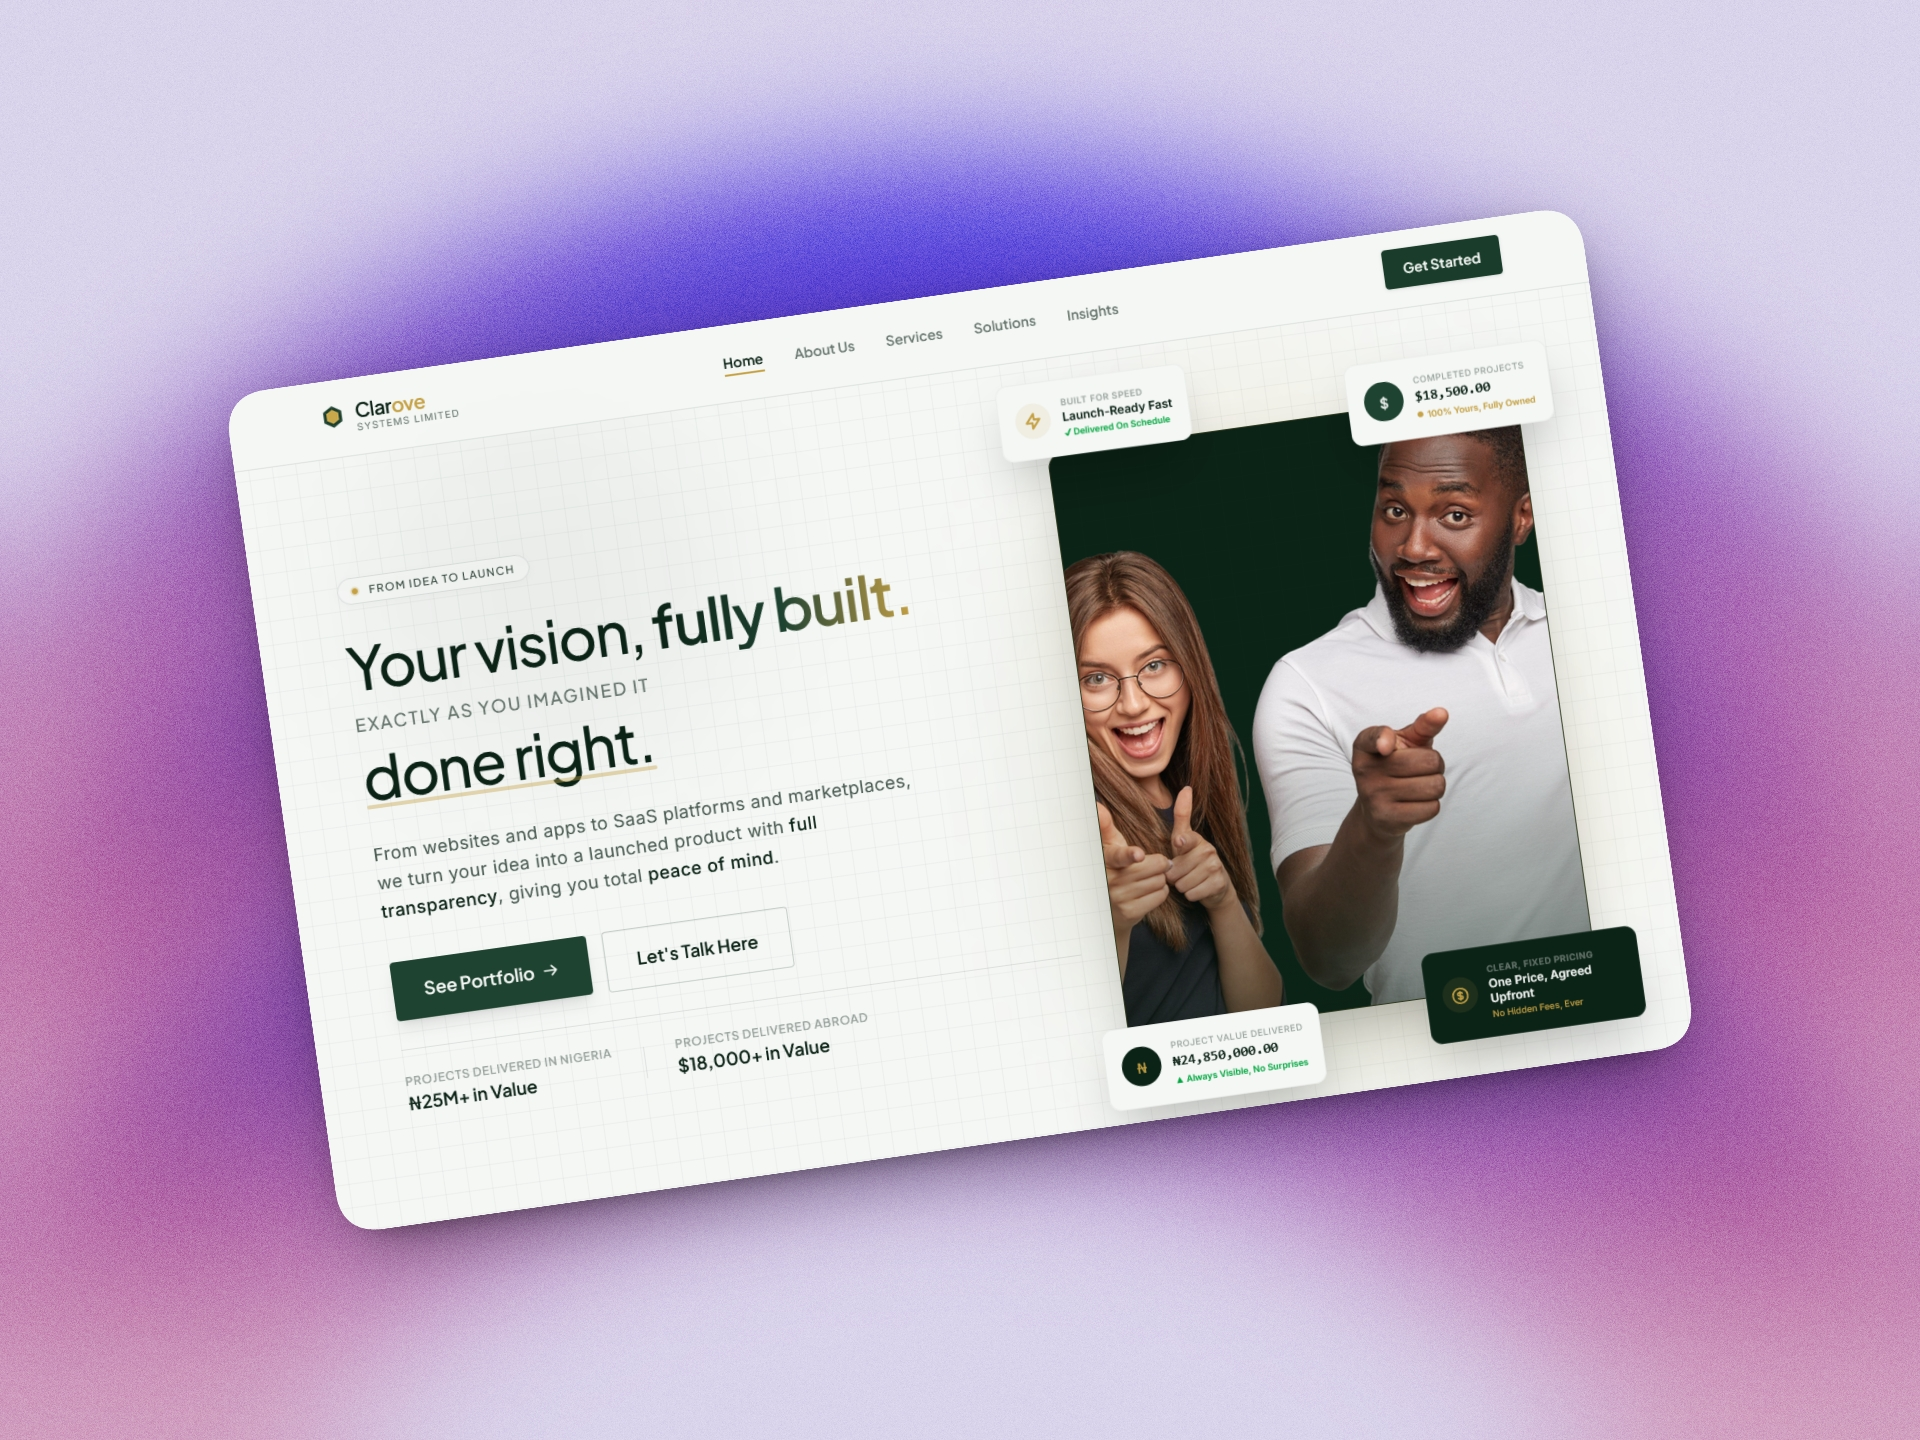
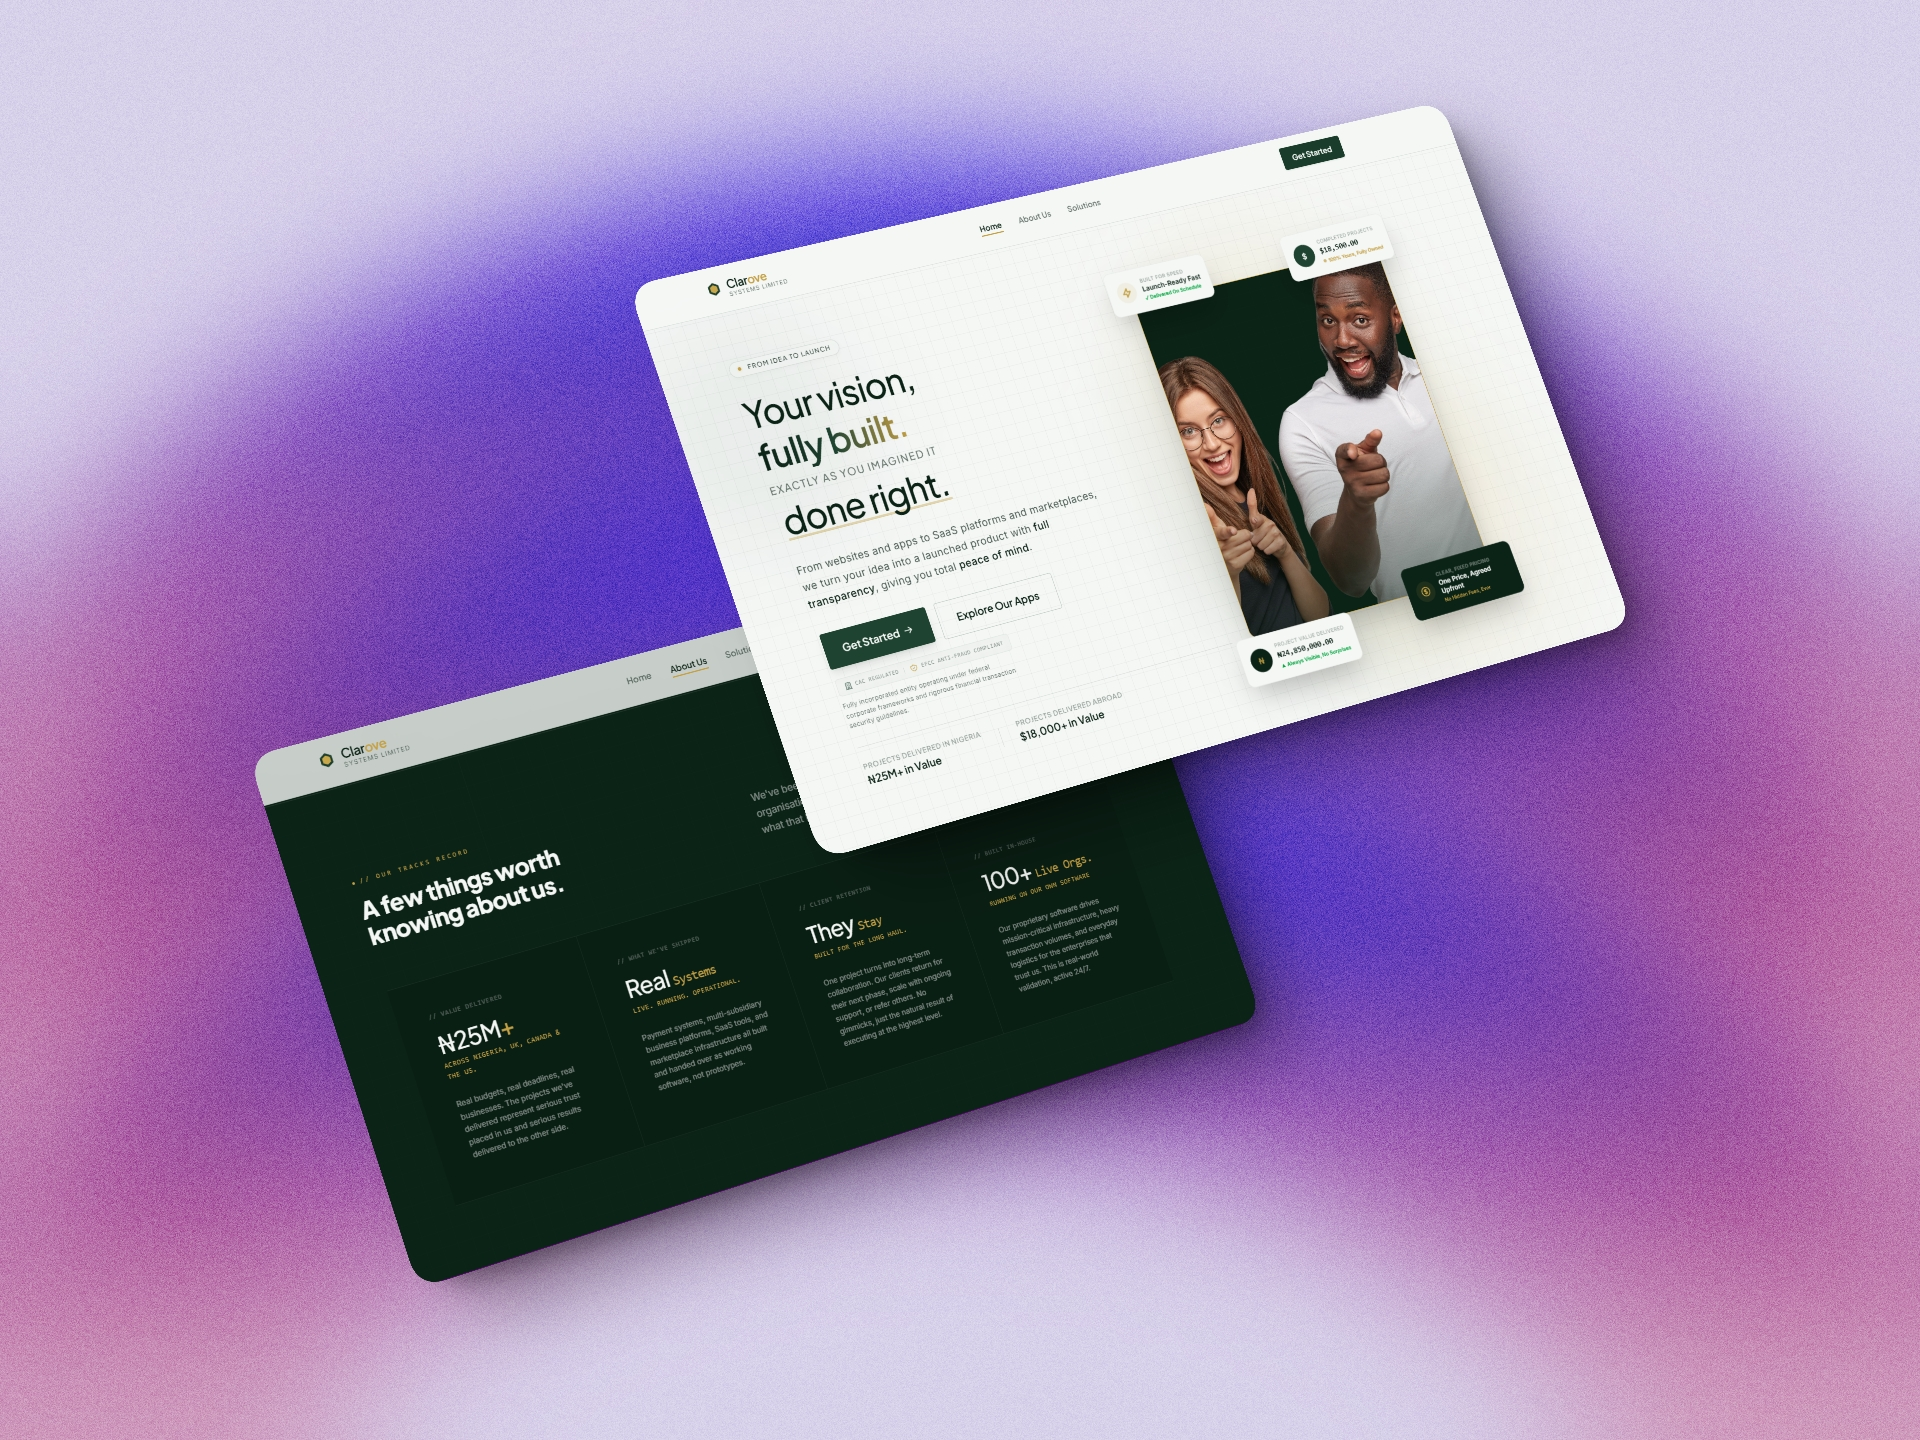
coming soon page complete

diff --git a/coming-soon/index.html b/coming-soon/index.html
@@ -1,0 +1,191 @@
+<!DOCTYPE html>
+<html lang="en">
+    <head>
+        <meta charset="UTF-8">
+        <meta name="viewport" content="width=device-width, initial-scale=1.0">
+        <title>Clarove Systems Limited</title>
+        <link rel="preconnect" href="https://fonts.googleapis.com">
+        <link rel="preconnect" href="https://fonts.gstatic.com" crossorigin>
+        <link href="https://fonts.googleapis.com/css2?family=Inter:wght@400;500;600&family=Plus+Jakarta+Sans:wght@500;600;700;800&display=swap" rel="stylesheet">
+        <link href="https://unpkg.com/aos@2.3.1/dist/aos.css" rel="stylesheet">
+        <link rel="stylesheet" href="/assets/css/style.css">
+        <link rel="apple-touch-icon" sizes="57x57" href="/assets/images/favicon/apple-icon-57x57.png">
+        <link rel="apple-touch-icon" sizes="60x60" href="/assets/images/favicon/apple-icon-60x60.png">
+        <link rel="apple-touch-icon" sizes="72x72" href="/assets/images/favicon/apple-icon-72x72.png">
+        <link rel="apple-touch-icon" sizes="76x76" href="/assets/images/favicon/apple-icon-76x76.png">
+        <link rel="apple-touch-icon" sizes="114x114" href="/assets/images/favicon/apple-icon-114x114.png">
+        <link rel="apple-touch-icon" sizes="120x120" href="/assets/images/favicon/apple-icon-120x120.png">
+        <link rel="apple-touch-icon" sizes="144x144" href="/assets/images/favicon/apple-icon-144x144.png">
+        <link rel="apple-touch-icon" sizes="152x152" href="/assets/images/favicon/apple-icon-152x152.png">
+        <link rel="apple-touch-icon" sizes="180x180" href="/assets/images/favicon/apple-icon-180x180.png">
+        <link rel="icon" type="image/png" sizes="192x192"  href="/assets/images/favicon/android-icon-192x192.png">
+        <link rel="icon" type="image/png" sizes="32x32" href="/assets/images/favicon/favicon-32x32.png">
+        <link rel="icon" type="image/png" sizes="96x96" href="/assets/images/favicon/favicon-96x96.png">
+        <link rel="icon" type="image/png" sizes="16x16" href="/assets/images/favicon/favicon-16x16.png">
+        <link rel="manifest" href="/manifest.webmanifest">
+        <meta name="msapplication-config" content="/browserconfig.xml" />
+        <meta name="msapplication-TileColor" content="#F5F8F5">
+        <meta name="msapplication-TileImage" content="/assets/images/favicon/ms-icon-144x144.png">
+        <page-meta
+            title="Coming Soon — Clarove Systems"
+            description="Something new is on the way. Clarove Systems is working on something worth the wait — stay tuned."
+            url="https://clarovesystems.com/coming-soon/"
+        ></page-meta>
+    </head>
+    <body class="bg-brand-dark bg-microgrid antialiased selection:bg-brand-gold selection:text-brand-dark">
+    
+    <!-- HEADER: Standard Ecosystem Navbar -->
+    <header 
+        class="sticky top-0 z-50 backdrop-blur-md border-b border-brand-light/5 bg-brand-dark/90 px-6 py-4"
+        data-aos="fade-down"
+        data-aos-duration="1000"
+        data-aos-easing="cubic-bezier(0.16, 1, 0.3, 1)"
+    >
+        <div class="max-w-7xl mx-auto flex justify-between items-center">
+            <a href="/" class="flex items-center group">
+                <div class="relative h-11 w-11 flex items-center justify-center rounded-lg transition-transform duration-300 group-hover:scale-105">
+                    <img src="/assets/images/clarove-favicon.png" alt="Clarove Hexagon Logo Icon" class="h-full w-full object-contain" />
+                </div>
+                <div class="flex flex-col">
+                    <span class="font-display text-xl font-semibold tracking-tight text-brand-light transition-colors duration-300 group-hover:text-brand-gold">Clarove</span>
+                    <span class="text-[10px] uppercase tracking-widest text-brand-gold group-hover:text-brand-light mt-1">Systems Limited</span>
+                </div>
+            </a>
+            <a onclick="window.history.back()" class="text-xs text-brand-light/40 hover:text-brand-light transition-colors duration-200">
+                &larr; Go Back
+            </a>
+        </div>
+    </header>
+    
+    <main class="relative z-10 my-auto px-4 sm:px-6 lg:px-8 py-16 flex flex-col items-center justify-center text-center max-w-4xl mx-auto">
+        <div data-aos="fade-down" data-aos-duration="800" class="mb-6 inline-flex items-center gap-2.5 bg-brand-gold/5 border border-brand-gold/20 px-3.5 py-1 rounded-full shadow-[0_2px_12px_rgba(212,175,55,0.03)]">
+            <span class="font-mono text-[10px] font-medium tracking-[0.15em] uppercase text-brand-gold text-glow">// COming Soon</span>
+        </div>
+
+        <h1 data-aos="fade-up" data-aos-duration="1000" class="font-display text-3xl sm:text-4xl md:text-6xl font-light tracking-tight text-white leading-[1.15] max-w-2xl">
+            Your toolkit are <span class="font-semibold text-transparent bg-clip-text bg-linear-to-r from-white via-slate-200 to-brand-gold">almost ready.</span>
+        </h1>
+
+        <p data-aos="fade-up" data-aos-duration="1000" data-aos-delay="200" class="mt-6 font-body font-light text-sm sm:text-base md:text-lg text-slate-400 leading-relaxed tracking-wide max-w-xl">
+            We’re launching a suite of ready-made business tools you can subscribe to and use instantly; no code, no developers. Here’s a sneak peek of what’s coming.
+        </p>
+
+        <div data-aos="fade-up" data-aos-duration="1200" data-aos-delay="400" class="w-full max-w-3xl mt-12 grid grid-cols-1 md:grid-cols-3 gap-4 text-left relative">
+            
+            <div class="relative group p-5 bg-white/1 border border-white/5 rounded-xl backdrop-blur-xs transition-all duration-500 overflow-hidden select-none">
+                
+                <div class="absolute top-0 right-0 transform translate-x-2 -translate-y-2 font-mono text-[50px] font-bold text-white/1 transition-colors group-hover:text-white/2">01</div>
+                
+                <div class="flex items-start justify-between gap-4">
+                    <div class="space-y-3">
+                        <div class="h-8 w-8 rounded-lg bg-white/2 border border-white/10 flex items-center justify-center text-slate-500">
+                            <svg class="w-4 h-4" fill="none" stroke="currentColor" stroke-width="2" viewBox="0 0 24 24">
+                                <path stroke-linecap="round" stroke-linejoin="round" d="M19 11H5m14 0a2 2 0 012 2v6a2 2 0 01-2 2H5a2 2 0 01-2-2v-6a2 2 0 012-2m14 0V9a2 2 0 00-2-2M5 11V9a2 2 0 012-2m0 0V5a2 2 0 012-2h6a2 2 0 012 2v2M7 7h10" />
+                            </svg>
+                        </div>
+                        <div>
+                            <h3 class="font-display text-sm font-medium text-slate-400">Premium Hosting</h3>
+                            <p class="font-mono text-[9px] text-slate-600 tracking-wider uppercase mt-0.5">& Domain Registration</p>
+                        </div>
+                        <p class="font-body text-xs text-slate-500/80 font-light leading-relaxed">
+                            Your website or app, hosted by us; always fast, always secure, always online.
+                        </p>
+                    </div>
+                </div>
+                
+                <div class="mt-4 pt-3 border-t border-white/3 flex items-center justify-between">
+                    <span class="inline-flex items-center gap-1.5 font-mono text-[8px] tracking-widest text-slate-600 uppercase">
+                        <span class="h-1 w-1 rounded-full bg-slate-600"></span> In Queue
+                    </span>
+                    <span class="font-mono text-[9px] text-white/10 font-bold">STAGING</span>
+                </div>
+            </div>
+
+            <div class="relative group p-5 bg-white/1 border border-white/5 rounded-xl backdrop-blur-xs transition-all duration-500 overflow-hidden select-none">
+                <div class="absolute top-0 right-0 transform translate-x-2 -translate-y-2 font-mono text-[50px] font-bold text-white/1">02</div>
+                
+                <div class="flex items-start justify-between gap-4">
+                    <div class="space-y-3">
+                        <div class="h-8 w-8 rounded-lg bg-white/2 border border-white/10 flex items-center justify-center text-slate-500">
+                            <svg class="w-4 h-4" fill="none" stroke="currentColor" stroke-width="2" viewBox="0 0 24 24">
+                                <path stroke-linecap="round" stroke-linejoin="round" d="M3 8l7.89 5.26a2 2 0 002.22 0L21 8M5 19h14a2 2 0 002-2V7a2 2 0 00-2-2H5a2 2 0 00-2 2v10a2 2 0 002 2z" />
+                            </svg>
+                        </div>
+                        <div>
+                            <h3 class="font-display text-sm font-medium text-slate-400">Business Email</h3>
+                            <p class="font-mono text-[9px] text-slate-600 tracking-wider uppercase mt-0.5">without website</p>
+                        </div>
+                        <p class="font-body text-xs text-slate-500/80 font-light leading-relaxed">
+                            Professional email addresses on your own domain <span class="text-brand-gold font-mono">[email redacted]</span>, works on any device, with strict anti-spoof encryption layers.
+                        </p>
+                    </div>
+                </div>
+                
+                <div class="mt-4 pt-3 border-t border-white/3 flex items-center justify-between">
+                    <span class="inline-flex items-center gap-1.5 font-mono text-[8px] tracking-widest text-slate-600 uppercase">
+                        <span class="h-1 w-1 rounded-full bg-slate-600"></span> In Queue
+                    </span>
+                    <span class="font-mono text-[9px] text-white/10 font-bold">STAGING</span>
+                </div>
+            </div>
+
+            <div class="relative group p-5 bg-white/1 border border-white/5 rounded-xl backdrop-blur-xs transition-all duration-500 overflow-hidden select-none">
+                <div class="absolute top-0 right-0 transform translate-x-2 -translate-y-2 font-mono text-[50px] font-bold text-white/1">03</div>
+                
+                <div class="flex items-start justify-between gap-4">
+                    <div class="space-y-3">
+                        <div class="h-8 w-8 rounded-lg bg-white/2 border border-white/10 flex items-center justify-center text-slate-500">
+                            <svg class="w-4 h-4" fill="none" stroke="currentColor" stroke-width="2" viewBox="0 0 24 24">
+                                <path stroke-linecap="round" stroke-linejoin="round" d="M8 7V3m8 4V3m-9 8h10M5 21h14a2 2 0 002-2V7a2 2 0 00-2-2H5a2 2 0 00-2 2v12a2 2 0 002 2z" />
+                            </svg>
+                        </div>
+                        <div>
+                            <h3 class="font-display text-sm font-medium text-slate-400">Self-Hosted Booking</h3>
+                            <p class="font-mono text-[9px] text-slate-600 tracking-wider uppercase mt-0.5">Use anywhere</p>
+                        </div>
+                        <p class="font-body text-xs text-slate-500/80 font-light leading-relaxed">
+                            Let clients book your services online and share the link anywhere; no website needed, no third-party platforms, no extra fees.
+                        </p>
+                    </div>
+                </div>
+                
+                <div class="mt-4 pt-3 border-t border-white/3 flex items-center justify-between">
+                    <span class="inline-flex items-center gap-1.5 font-mono text-[8px] tracking-widest text-brand-gold uppercase">
+                        <span class="h-1 w-1 rounded-full bg-brand-gold animate-pulse"></span> Active Build
+                    </span>
+                    <span class="font-mono text-[9px] text-brand-gold/40 font-bold">COMPILING</span>
+                </div>
+            </div>
+
+        </div>
+
+        <div data-aos="fade-up" data-aos-duration="1000" data-aos-delay="600" class="mt-12 flex flex-wrap items-center justify-center gap-x-4 gap-y-1.5 text-slate-500">
+            <span class="inline-flex items-center gap-1.5 text-[9px] font-mono tracking-widest uppercase">
+                <svg class="w-3 h-3 text-emerald-500/60" fill="none" stroke="currentColor" stroke-width="2.5" viewBox="0 0 24 24">
+                    <path stroke-linecap="round" stroke-linejoin="round" d="M19 21V5a2 2 0 00-2-2H7a2 2 0 00-2 2v16m14 0h2m-2 0h-5m-9 0H3m2 0h5M9 7h1m-1 4h1m4-4h1m-1 4h1m-5 10v-5a1 1 0 011-1h2a1 1 0 011 1v5m-4 0h4" />
+                </svg>
+                CAC Incorporated
+            </span>
+            <span class="w-px h-2 bg-white/10"></span>
+            <span class="inline-flex items-center gap-1.5 text-[9px] font-mono tracking-widest uppercase">
+                <svg class="w-3 h-3 text-brand-gold/60" fill="none" stroke="currentColor" stroke-width="2.5" viewBox="0 0 24 24">
+                    <path stroke-linecap="round" stroke-linejoin="round" d="M9 12l2 2 4-4m5.618-4.016A11.955 11.955 0 0112 2.944a11.955 11.955 0 01-8.618 3.04A12.02 12.02 0 003 9c0 5.591 3.824 10.29 9 11.622 5.176-1.332 9-6.03 9-11.622 0-1.042-.133-2.052-.382-3.016z" />
+                </svg>
+                EFCC Compliant Framework
+            </span>
+        </div>
+
+    </main>
+
+    
+
+    <app-footer></app-footer>
+    <script></script>
+    <script defer src="https://cdn.jsdelivr.net/npm/alpinejs@3.15.2/dist/cdn.min.js"></script>
+    <script src="https://cdn.jsdelivr.net/npm/gsap@3.15/dist/gsap.min.js"></script>
+    <script src="https://cdn.jsdelivr.net/npm/gsap@3.15/dist/ScrollTrigger.min.js"></script>
+    <script src="https://unpkg.com/aos@2.3.1/dist/aos.js"></script>
+    <script type="module" src="/assets/js/main.js"></script>
+
+</body>
+</html>

diff --git a/explore/index.html b/explore/index.html
@@ -106,7 +106,7 @@
 
                     <!-- Web Hosting -->
                     <a 
-                        href="/hosting" 
+                        href="/coming-soon" 
                         class="group relative flex flex-col justify-between p-6 bg-slate-50 hover:bg-slate-900 border border-slate-200/80 hover:border-slate-900 rounded-2xl transition-all duration-400 transform hover:-translate-y-1 shadow-xs hover:shadow-xl"
                     >
                         <div class="space-y-4">
@@ -132,7 +132,7 @@
 
                     <!-- business email -->
                     <a 
-                        href="/business-email" 
+                        href="/coming-soon" 
                         class="group relative flex flex-col justify-between p-6 bg-slate-50 hover:bg-slate-900 border border-slate-200/80 hover:border-slate-900 rounded-2xl transition-all duration-400 transform hover:-translate-y-1 shadow-xs hover:shadow-xl"
                     >
                         <div class="space-y-4">
@@ -158,7 +158,7 @@
 
                     <!-- APPLICATION BLOCK 04: TURNKEY BOOKING SCHEDULER -->
                     <a 
-                        href="/booking-signup" 
+                        href="/coming-soon" 
                         class="group relative flex flex-col justify-between p-6 bg-slate-50 hover:bg-slate-900 border border-slate-200/80 hover:border-slate-900 rounded-2xl transition-all duration-400 transform hover:-translate-y-1 shadow-xs hover:shadow-xl"
                     >
                         <div class="space-y-4">

diff --git a/about/index.html b/about/index.html
@@ -137,7 +137,7 @@
                             data-aos-easing="cubic-bezier(0.16, 1, 0.3, 1)"
                         >
                             <a href="/solutions/" class="w-full sm:w-auto px-7 py-3.5 bg-brand-gold text-brand-dark font-mono text-xs font-bold uppercase tracking-wider rounded-lg hover:bg-brand-light hover:text-brand-dark transition-all duration-300 shadow-xl shadow-brand-gold/10 text-center">
-                                See our Softwares
+                                Our Apps
                             </a>
                             <a href="#about-process" class="w-full sm:w-auto px-7 py-3.5 bg-brand-dark/60 text-brand-light/90 border border-brand-light/10 font-mono text-xs font-bold uppercase tracking-wider rounded-lg hover:border-brand-gold/40 hover:text-brand-light transition-all duration-300 backdrop-blur-md text-center">
                                 How we work

diff --git a/README.md b/README.md
@@ -31,7 +31,7 @@ The site acts as a professional online presence for the company, helping potenti
 
 ![Clarove Systems mockup](/assets/images/mockups/clarove-mk-3.jpeg)
 
-![Clarove Systems mockup](/assets/images/mockups/clarove-mk-2.jpeg)
+![Clarove Systems mockup](/assets/images/mockups/dsk-abt-two-view.jpeg)
 
 ## Tech stack
 